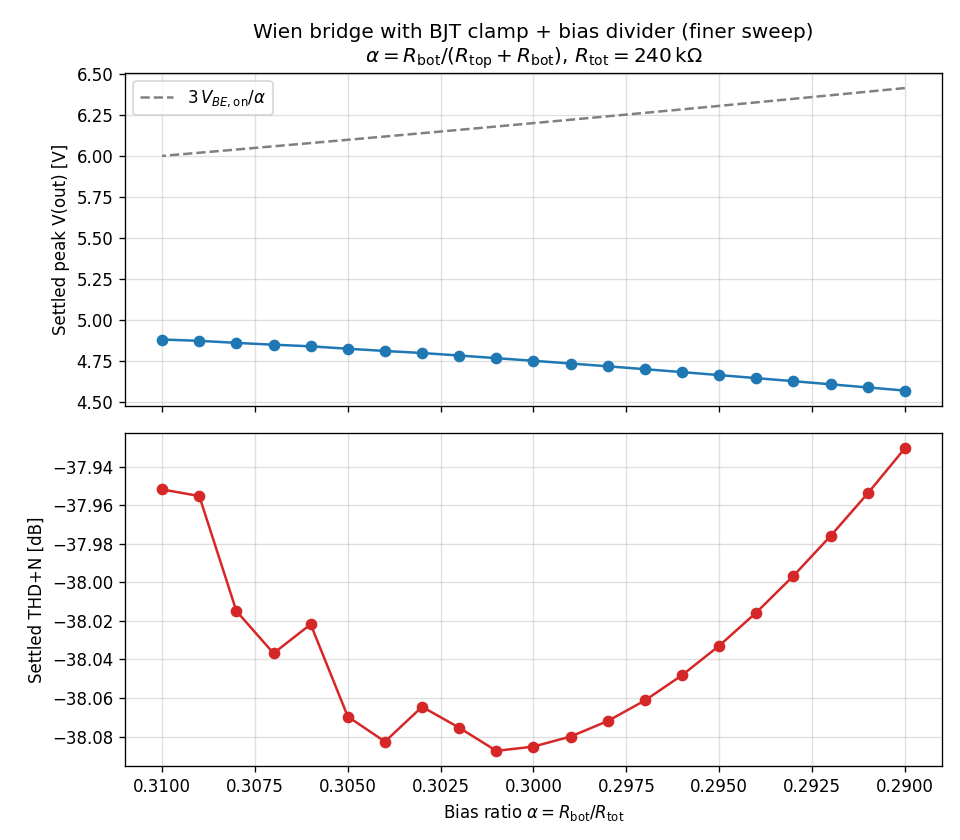
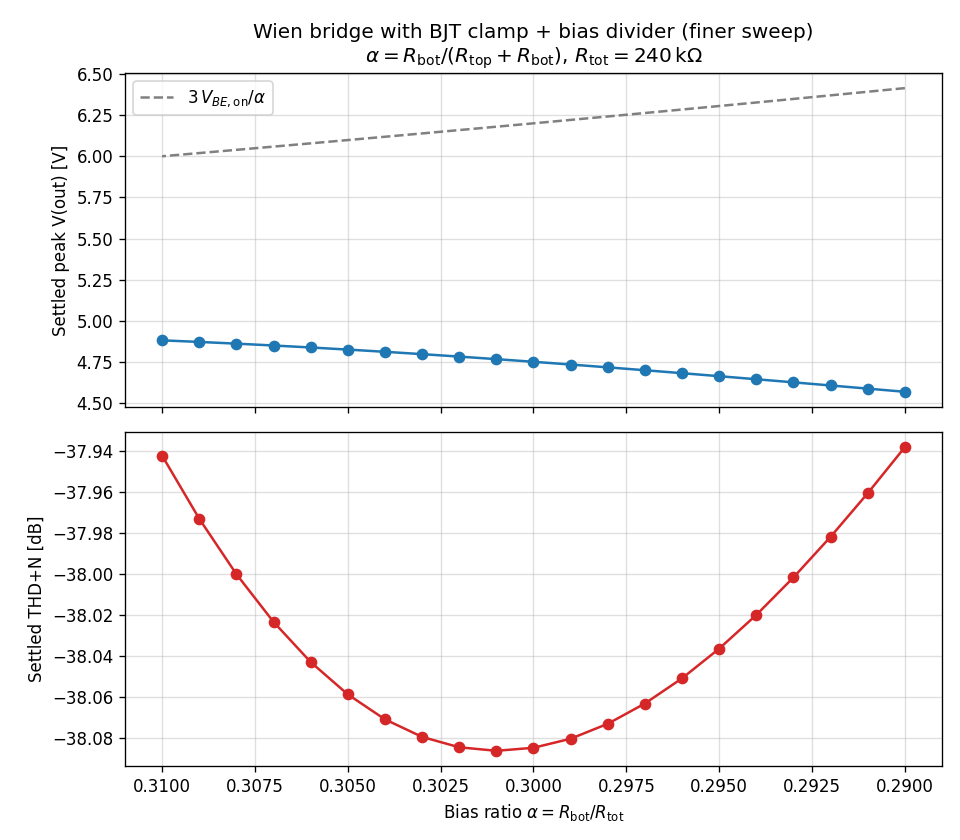
Rerun finer sweep at 1 us tstep; add solver timestep diagnostic
The earlier finer sweep had ~0.05 dB wiggles in the THD curve. Adding
a solver-step diagnostic (plot_dt_distribution.py, parsing ngspice
ASCII rawfiles to expose actual solver-native time points) shows the
adaptive solver locks to the .tran print step in steady state, so
output resolution was the limit, not solver behaviour.

Switching the finer sweep to tstep = 1 us (and lock-in fs = 1 MS/s)
collapses the wiggle: the THD bowl is now smooth with a sharp minimum
at alpha = 0.301 at -38.086 dB / 1.2465%. The 10 us sampling had been
hiding the true shape.

sweep_wien_bias.py now picks tstep per named sweep (broad/fine = 10u,
finer = 1u) and matches lock-in fs to the data rate. Working
directories (_bias_sweep/, _dt_sweep/) are gitignored.

https://claude.ai/code/session_017NCyg8LM8iXng2MzqG8KFd

diff --git a/ngspice_examples/plot_dt_distribution.py b/ngspice_examples/plot_dt_distribution.py
@@ -1,0 +1,194 @@
+"""Chart the ngspice adaptive timestep distribution over the THD measurement
+window for each alpha in the finer bias-ratio sweep.
+
+By default, ngspice's `wrdata` writes at the .tran print step (10 us here)
+regardless of the internal solver, hiding the adaptive behaviour. To see
+the actual solver-native time points we re-run each alpha and emit an
+ASCII rawfile via the `write` command, which preserves every accepted
+solver step.
+
+For each alpha:
+  - Generate the netlist (Wien + biased BJTs + raw output).
+  - Run ngspice in batch mode.
+  - Parse the rawfile to recover the full time axis.
+  - Restrict to the same window used by the lock-in THD readout
+    (t in [0.05, 0.085] s) and compute dt[k] = t[k+1] - t[k].
+  - Plot the dt distribution as a violin per alpha, with the THD curve
+    overlaid below for context.
+"""
+from pathlib import Path
+import re
+import shutil
+import subprocess
+import numpy as np
+import matplotlib
+
+matplotlib.use("Agg")
+import matplotlib.pyplot as plt
+
+HERE = Path(__file__).parent
+WORK = HERE / "_dt_sweep"
+WORK.mkdir(exist_ok=True)
+
+ALPHAS = list(np.round(np.arange(0.290, 0.3101, 0.001), 4))
+R_TOT = 240e3
+T_LO, T_HI = 0.05, 0.085
+
+
+def make_netlist(alpha: float, raw_path: Path) -> str:
+    rtop = (1 - alpha) * R_TOT
+    rbot = alpha * R_TOT
+    return f"""* Wien bridge with BJT divider clamp, alpha={alpha:.4f}, raw output
+
+R1   out  ns   10k
+C1   ns   np   15.915n  IC=0
+R2   np   0    10k
+C2   np   0    15.915n  IC=10m
+
+Rg   nn   0    10k
+Rfa  nn   fb   10k
+Rfb  fb   out  12k
+Q1   fb   b1   out  Q2N3904
+Q2   out  b2   fb   Q2N3904
+Rtop1 fb  b1  {rtop:.6g}
+Rbot1 b1  out {rbot:.6g}
+Rtop2 out b2  {rtop:.6g}
+Rbot2 b2  fb  {rbot:.6g}
+
+Bgain oe   0   V = max(-15, min(15, 1e5*(V(np)-V(nn))))
+Rop   oe   oa  1k
+Cop   oa   0   1.59n     IC=0
+Ebuf  out  0   oa  0     1.0
+
+.model Q2N3904 NPN(IS=6.734f XTI=3 EG=1.11 VAF=74.03 BF=416.4 NE=1.259
++ ISE=6.734f IKF=66.78m XTB=1.5 BR=.7371 NC=2 ISC=0 IKR=0 RC=1
++ CJC=3.638p MJC=.3085 VJC=.75 FC=.5 CJE=4.493p MJE=.2593 VJE=.75
++ TR=239.5n TF=301.2p ITF=.4 VTF=4 XTF=2 RB=10)
+
+.tran 1u 100m UIC
+
+.control
+set filetype=ascii
+run
+write {raw_path.as_posix()} v(out)
+.endcontrol
+
+.end
+"""
+
+
+def parse_raw_time(path: Path) -> np.ndarray:
+    """Extract the time column from an ngspice ASCII raw file."""
+    text = path.read_text()
+    _, _, body = text.partition("Values:\n")
+    times: list[float] = []
+    for line in body.splitlines():
+        parts = line.split("\t")
+        if len(parts) >= 2 and parts[0].strip().isdigit():
+            times.append(float(parts[1]))
+    return np.asarray(times)
+
+
+def run_one(alpha: float) -> np.ndarray:
+    cir = WORK / f"wien_alpha_{alpha:.4f}.cir"
+    raw = WORK / f"wien_alpha_{alpha:.4f}.raw"
+    cir.write_text(make_netlist(alpha, raw))
+    subprocess.run(
+        ["ngspice", "-b", cir.name],
+        cwd=WORK,
+        check=True,
+        capture_output=True,
+        text=True,
+    )
+    return parse_raw_time(raw)
+
+
+def main() -> None:
+    if shutil.which("ngspice") is None:
+        raise RuntimeError("ngspice not found in PATH")
+
+    dt_thd: list[np.ndarray] = []
+    dt_startup: list[np.ndarray] = []
+    n_total: list[int] = []
+    for a in ALPHAS:
+        t = run_one(a)
+        sel_thd = (t >= T_LO) & (t <= T_HI)
+        sel_start = t < 0.015
+        dts_thd = np.diff(t[sel_thd])
+        dts_start = np.diff(t[sel_start])
+        dt_thd.append(dts_thd)
+        dt_startup.append(dts_start)
+        n_total.append(len(t))
+        print(f"alpha={a:.4f}  total_pts={len(t):5d}  "
+              f"THD-window unique-dt={len(np.unique(np.round(dts_thd,12))):2d}  "
+              f"startup dt: min={dts_start.min()*1e6:7.4f}us  "
+              f"median={np.median(dts_start)*1e6:6.3f}us  "
+              f"max={dts_start.max()*1e6:6.3f}us")
+
+    csv = np.loadtxt(HERE / "wien_bias_sweep_finer.csv", delimiter=",", skiprows=1)
+    thd_db = 20 * np.log10(csv[:, 2])
+
+    fig, axes = plt.subplots(
+        3, 1, figsize=(11, 9), sharex=True,
+        gridspec_kw=dict(height_ratios=[2, 3, 1])
+    )
+    ax_thd_dt, ax_start_dt, ax_thd_curve = axes
+    positions = np.arange(len(ALPHAS))
+
+    # Top: per-alpha [min, max] dt in the THD window. Will be a flat line at
+    # 10 us because every step is bit-for-bit identical across alpha.
+    medians = np.array([np.median(d) for d in dt_thd]) * 1e6
+    mins = np.array([d.min() for d in dt_thd]) * 1e6
+    maxs = np.array([d.max() for d in dt_thd]) * 1e6
+    ax_thd_dt.fill_between(positions, mins, maxs, color="C0", alpha=0.3,
+                           label="[min, max] across window")
+    ax_thd_dt.plot(positions, medians, "o-", color="C0", label="median")
+    ax_thd_dt.set_ylabel(r"$\Delta t$ [$\mu$s]")
+    ax_thd_dt.set_title(
+        rf"THD measurement window  $t\in[{T_LO*1e3:.0f},\,{T_HI*1e3:.0f}]$ ms"
+        rf" — bit-for-bit identical {medians[0]:.1f} us steps for all $\alpha$"
+    )
+    ax_thd_dt.set_ylim(medians[0] * 0.95, medians[0] * 1.05)
+    ax_thd_dt.grid(True, which="both", alpha=0.4)
+    ax_thd_dt.legend(loc="lower right")
+
+    # Bottom violin: actual adaptive behaviour during startup
+    parts = ax_start_dt.violinplot(
+        [d * 1e6 for d in dt_startup],
+        positions=positions,
+        showmeans=False,
+        showmedians=True,
+        showextrema=True,
+        widths=0.85,
+    )
+    for body in parts["bodies"]:
+        body.set_facecolor("C2")
+        body.set_edgecolor("0.3")
+        body.set_alpha(0.55)
+    for key in ("cbars", "cmaxes", "cmins"):
+        parts[key].set_color("0.25")
+    parts["cmedians"].set_color("C3")
+    parts["cmedians"].set_linewidth(2)
+    ax_start_dt.set_yscale("log")
+    ax_start_dt.set_ylabel(r"$\Delta t$ [$\mu$s]")
+    ax_start_dt.set_title(
+        r"Startup window  $t<15$ ms — real adaptive behaviour, "
+        "tail to nanosecond steps when clamp first engages"
+    )
+    ax_start_dt.grid(True, which="both", alpha=0.4)
+
+    ax_thd_curve.plot(positions, thd_db, "o-", color="C3")
+    ax_thd_curve.set_ylabel("THD+N [dB]")
+    ax_thd_curve.grid(True, which="both", alpha=0.4)
+    ax_thd_curve.set_xticks(positions)
+    ax_thd_curve.set_xticklabels([f"{a:.3f}" for a in ALPHAS], rotation=45)
+    ax_thd_curve.set_xlabel(r"Bias ratio $\alpha$")
+
+    fig.tight_layout()
+    out = HERE / "wien_bias_dt_distribution.png"
+    fig.savefig(out, dpi=120)
+    print(f"\nWrote {out}")
+
+
+if __name__ == "__main__":
+    main()

diff --git a/ngspice_examples/sweep_wien_bias.py b/ngspice_examples/sweep_wien_bias.py
@@ -36,8 +36,12 @@ SWEEPS = {
     "finer":  list(np.round(np.arange(0.29, 0.3101, 0.001), 4)),
 }
 
+# Default tstep per sweep -- finer sweeps need finer resolution to keep the
+# lock-in measurement floor below the THD variation we want to see.
+TSTEPS = {"broad": "10u", "fine": "10u", "finer": "1u"}
 
-def make_netlist(alpha: float, data_path: Path) -> str:
+
+def make_netlist(alpha: float, data_path: Path, tstep: str = "10u") -> str:
     """Wien bridge with BJT clamps biased by symmetric dividers (ratio alpha)."""
     rtop = (1 - alpha) * R_TOT
     rbot = alpha * R_TOT
@@ -78,7 +82,7 @@ Ebuf  out  0   oa  0     1.0
 + CJC=3.638p MJC=.3085 VJC=.75 FC=.5 CJE=4.493p MJE=.2593 VJE=.75
 + TR=239.5n TF=301.2p ITF=.4 VTF=4 XTF=2 RB=10)
 
-.tran 10u 100m UIC
+.tran {tstep} 100m UIC
 
 .control
 run
@@ -89,10 +93,11 @@ wrdata {data_path.as_posix()} v(out)
 """
 
 
-def run_one(alpha: float) -> tuple[np.ndarray, np.ndarray]:
-    cir = WORK / f"wien_alpha_{alpha:.3f}.cir"
-    dat = WORK / f"wien_alpha_{alpha:.3f}.data"
-    cir.write_text(make_netlist(alpha, dat))
+def run_one(alpha: float, tstep: str = "10u") -> tuple[np.ndarray, np.ndarray]:
+    tag = f"wien_alpha_{alpha:.4f}_{tstep}"
+    cir = WORK / f"{tag}.cir"
+    dat = WORK / f"{tag}.data"
+    cir.write_text(make_netlist(alpha, dat, tstep=tstep))
     subprocess.run(
         ["ngspice", "-b", cir.name],
         cwd=WORK,
@@ -104,10 +109,9 @@ def run_one(alpha: float) -> tuple[np.ndarray, np.ndarray]:
     return d[:, 0], d[:, 1]
 
 
-def lockin_thd(t_raw: np.ndarray, x_raw: np.ndarray, t_window=(0.05, 0.085)
-               ) -> tuple[float, float]:
+def lockin_thd(t_raw: np.ndarray, x_raw: np.ndarray, t_window=(0.05, 0.085),
+               fs: float = 50_000) -> tuple[float, float]:
     """Return (peak_amplitude, THD+N) over the steady-state window via lock-in."""
-    fs = 50_000
     t = np.arange(t_raw[0], t_raw[-1], 1 / fs)
     x = np.interp(t, t_raw, x_raw)
 
@@ -148,19 +152,27 @@ def main() -> None:
     args = parser.parse_args()
     alphas = SWEEPS[args.sweep]
     suffix = "" if args.sweep == "broad" else f"_{args.sweep}"
+    tstep = TSTEPS[args.sweep]
+    # Match lock-in fs to the simulation print rate so we don't downsample.
+    suffix_lookup = {"10u": 100_000, "1u": 1_000_000, "100n": 10_000_000}
+    fs = suffix_lookup.get(tstep, 100_000)
 
     if shutil.which("ngspice") is None:
         raise RuntimeError("ngspice not found in PATH")
 
+    print(f"Sweep '{args.sweep}': {len(alphas)} points, "
+          f"tstep={tstep}, lock-in fs={fs/1e3:.0f} kS/s")
+
     results = []
     for a in alphas:
         try:
-            t, x = run_one(a)
-            amp, thd = lockin_thd(t, x)
-            print(f"alpha={a:.3f}  peak={amp:.3f} V   THD+N={thd*100:.3f} %")
+            t, x = run_one(a, tstep=tstep)
+            amp, thd = lockin_thd(t, x, fs=fs)
+            print(f"alpha={a:.4f}  peak={amp:.3f} V   THD+N={thd*100:.4f} %  "
+                  f"({20*np.log10(thd):+.3f} dB)")
             results.append((a, amp, thd))
         except subprocess.CalledProcessError as e:
-            print(f"alpha={a:.3f}  FAILED: {e.stderr[-200:]}")
+            print(f"alpha={a:.4f}  FAILED: {e.stderr[-200:]}")
             results.append((a, float("nan"), float("nan")))
 
     arr = np.array(results)